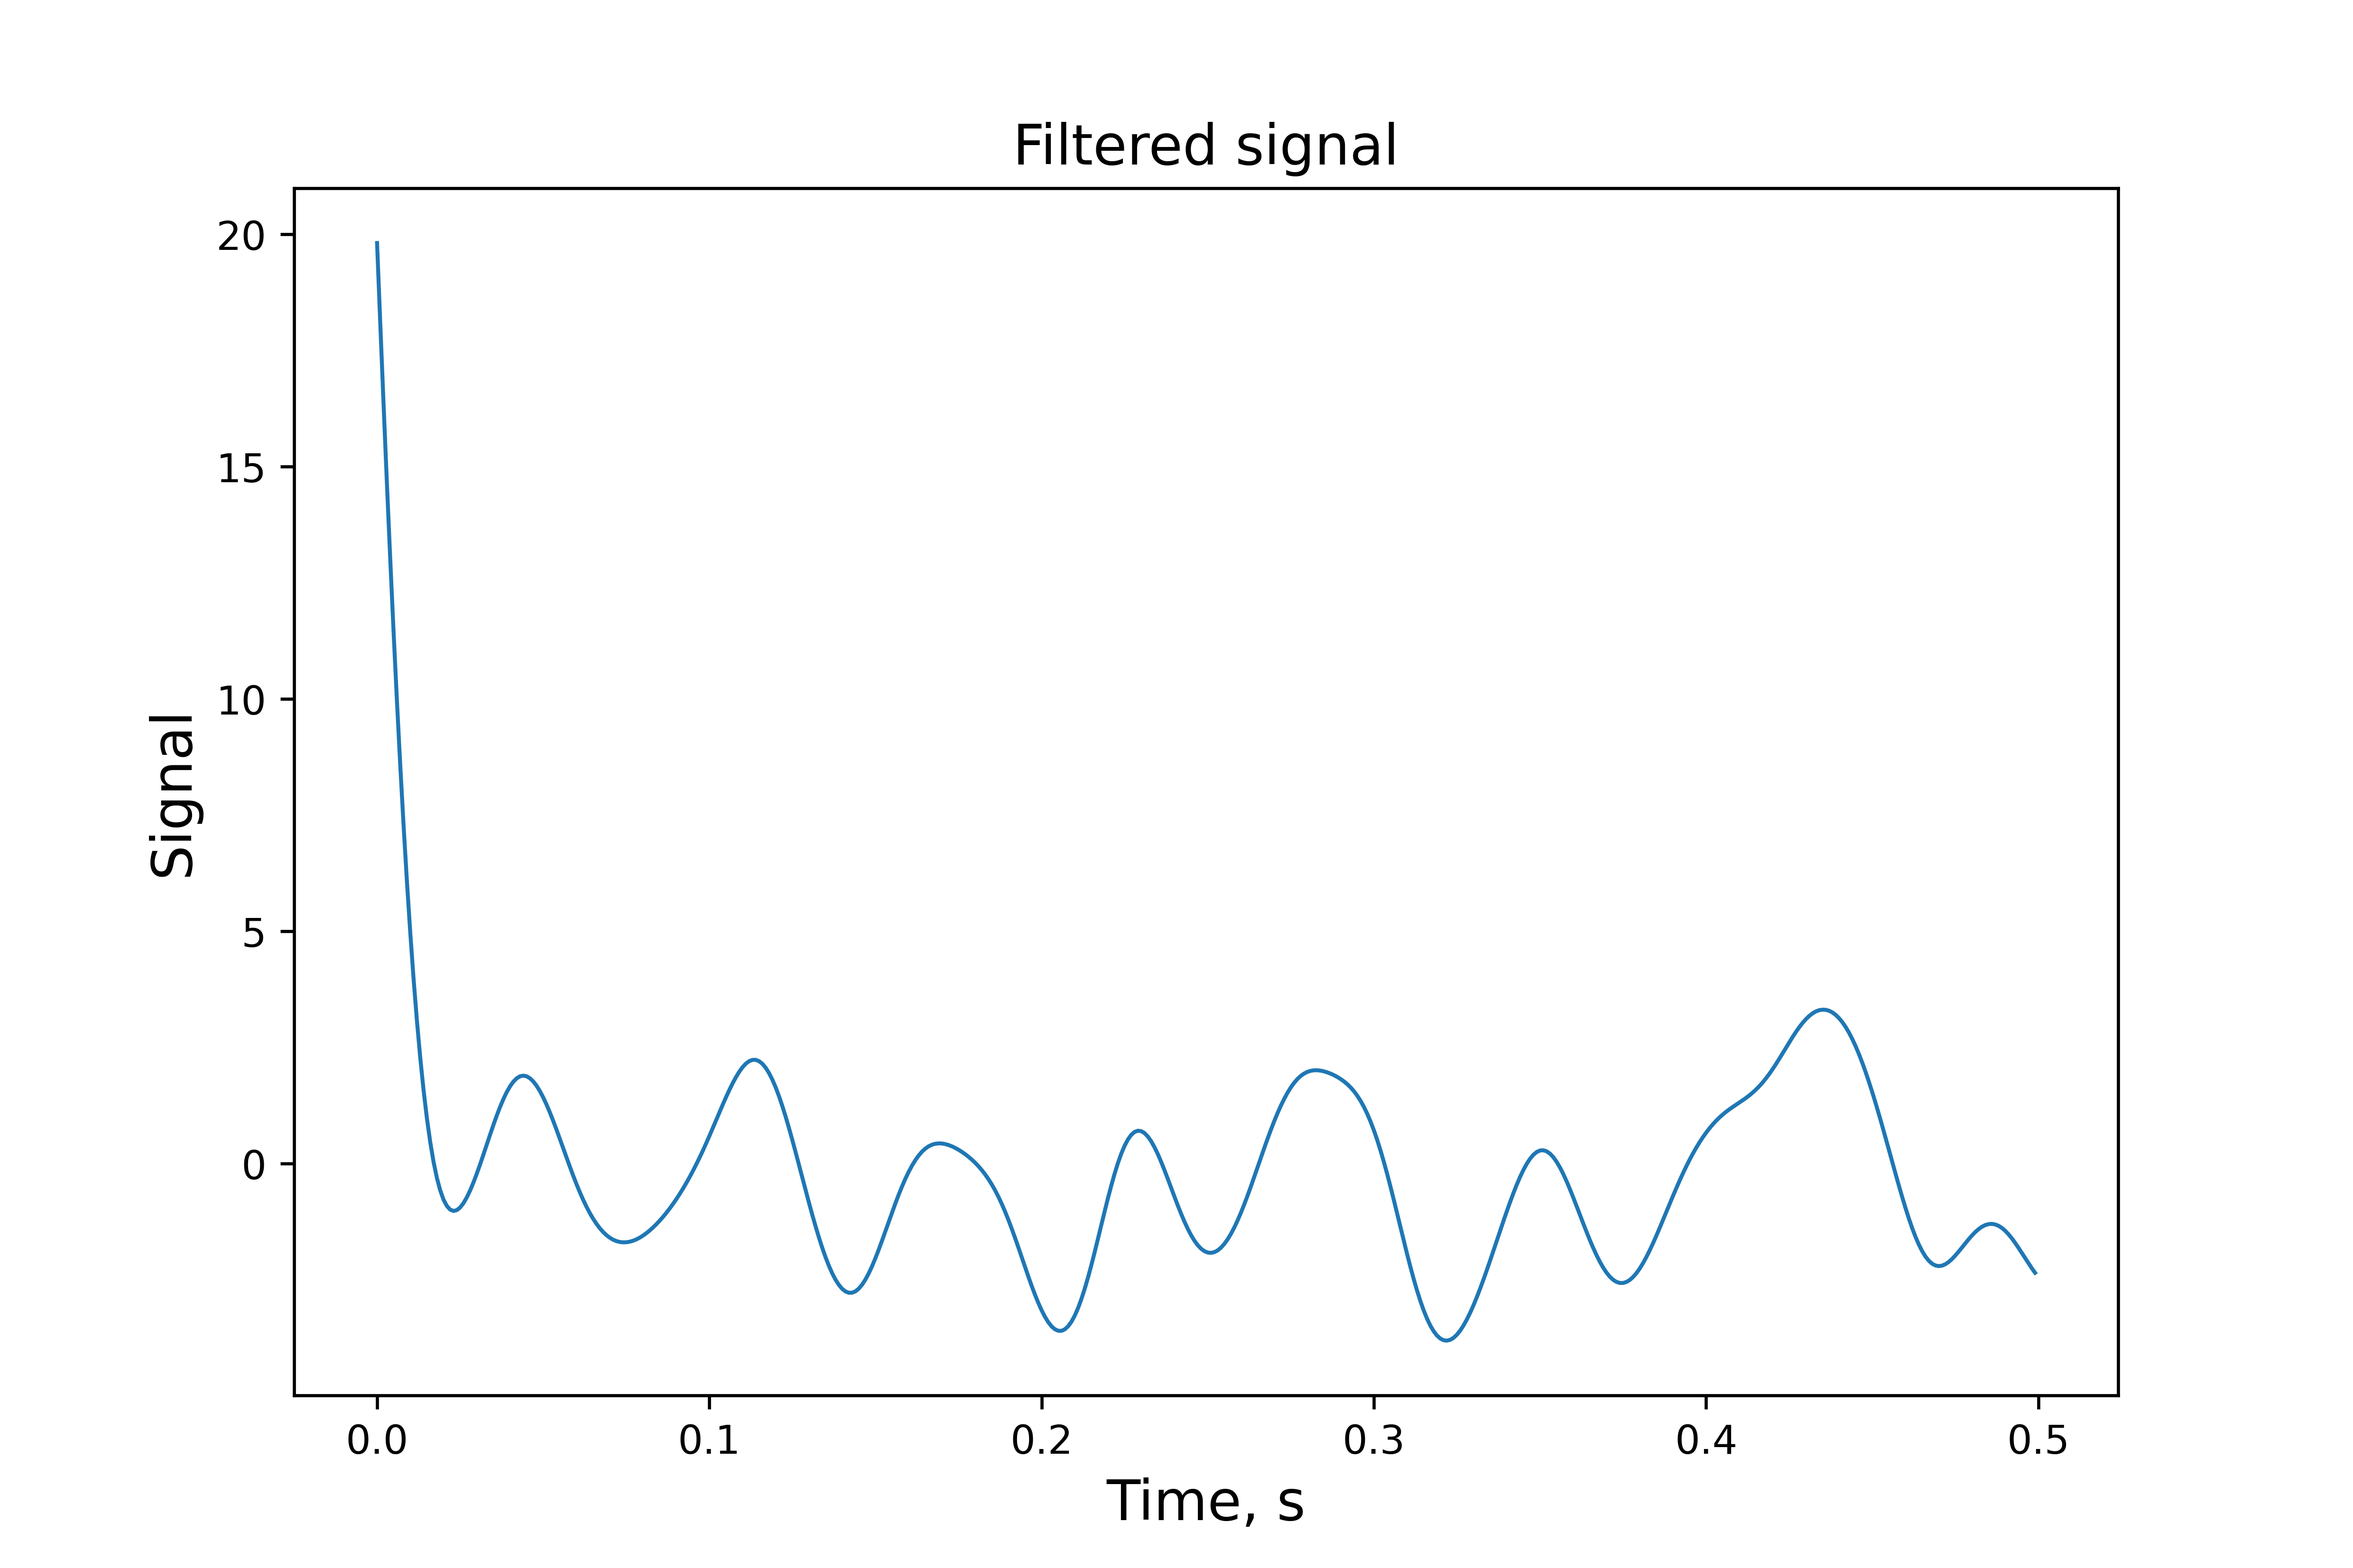
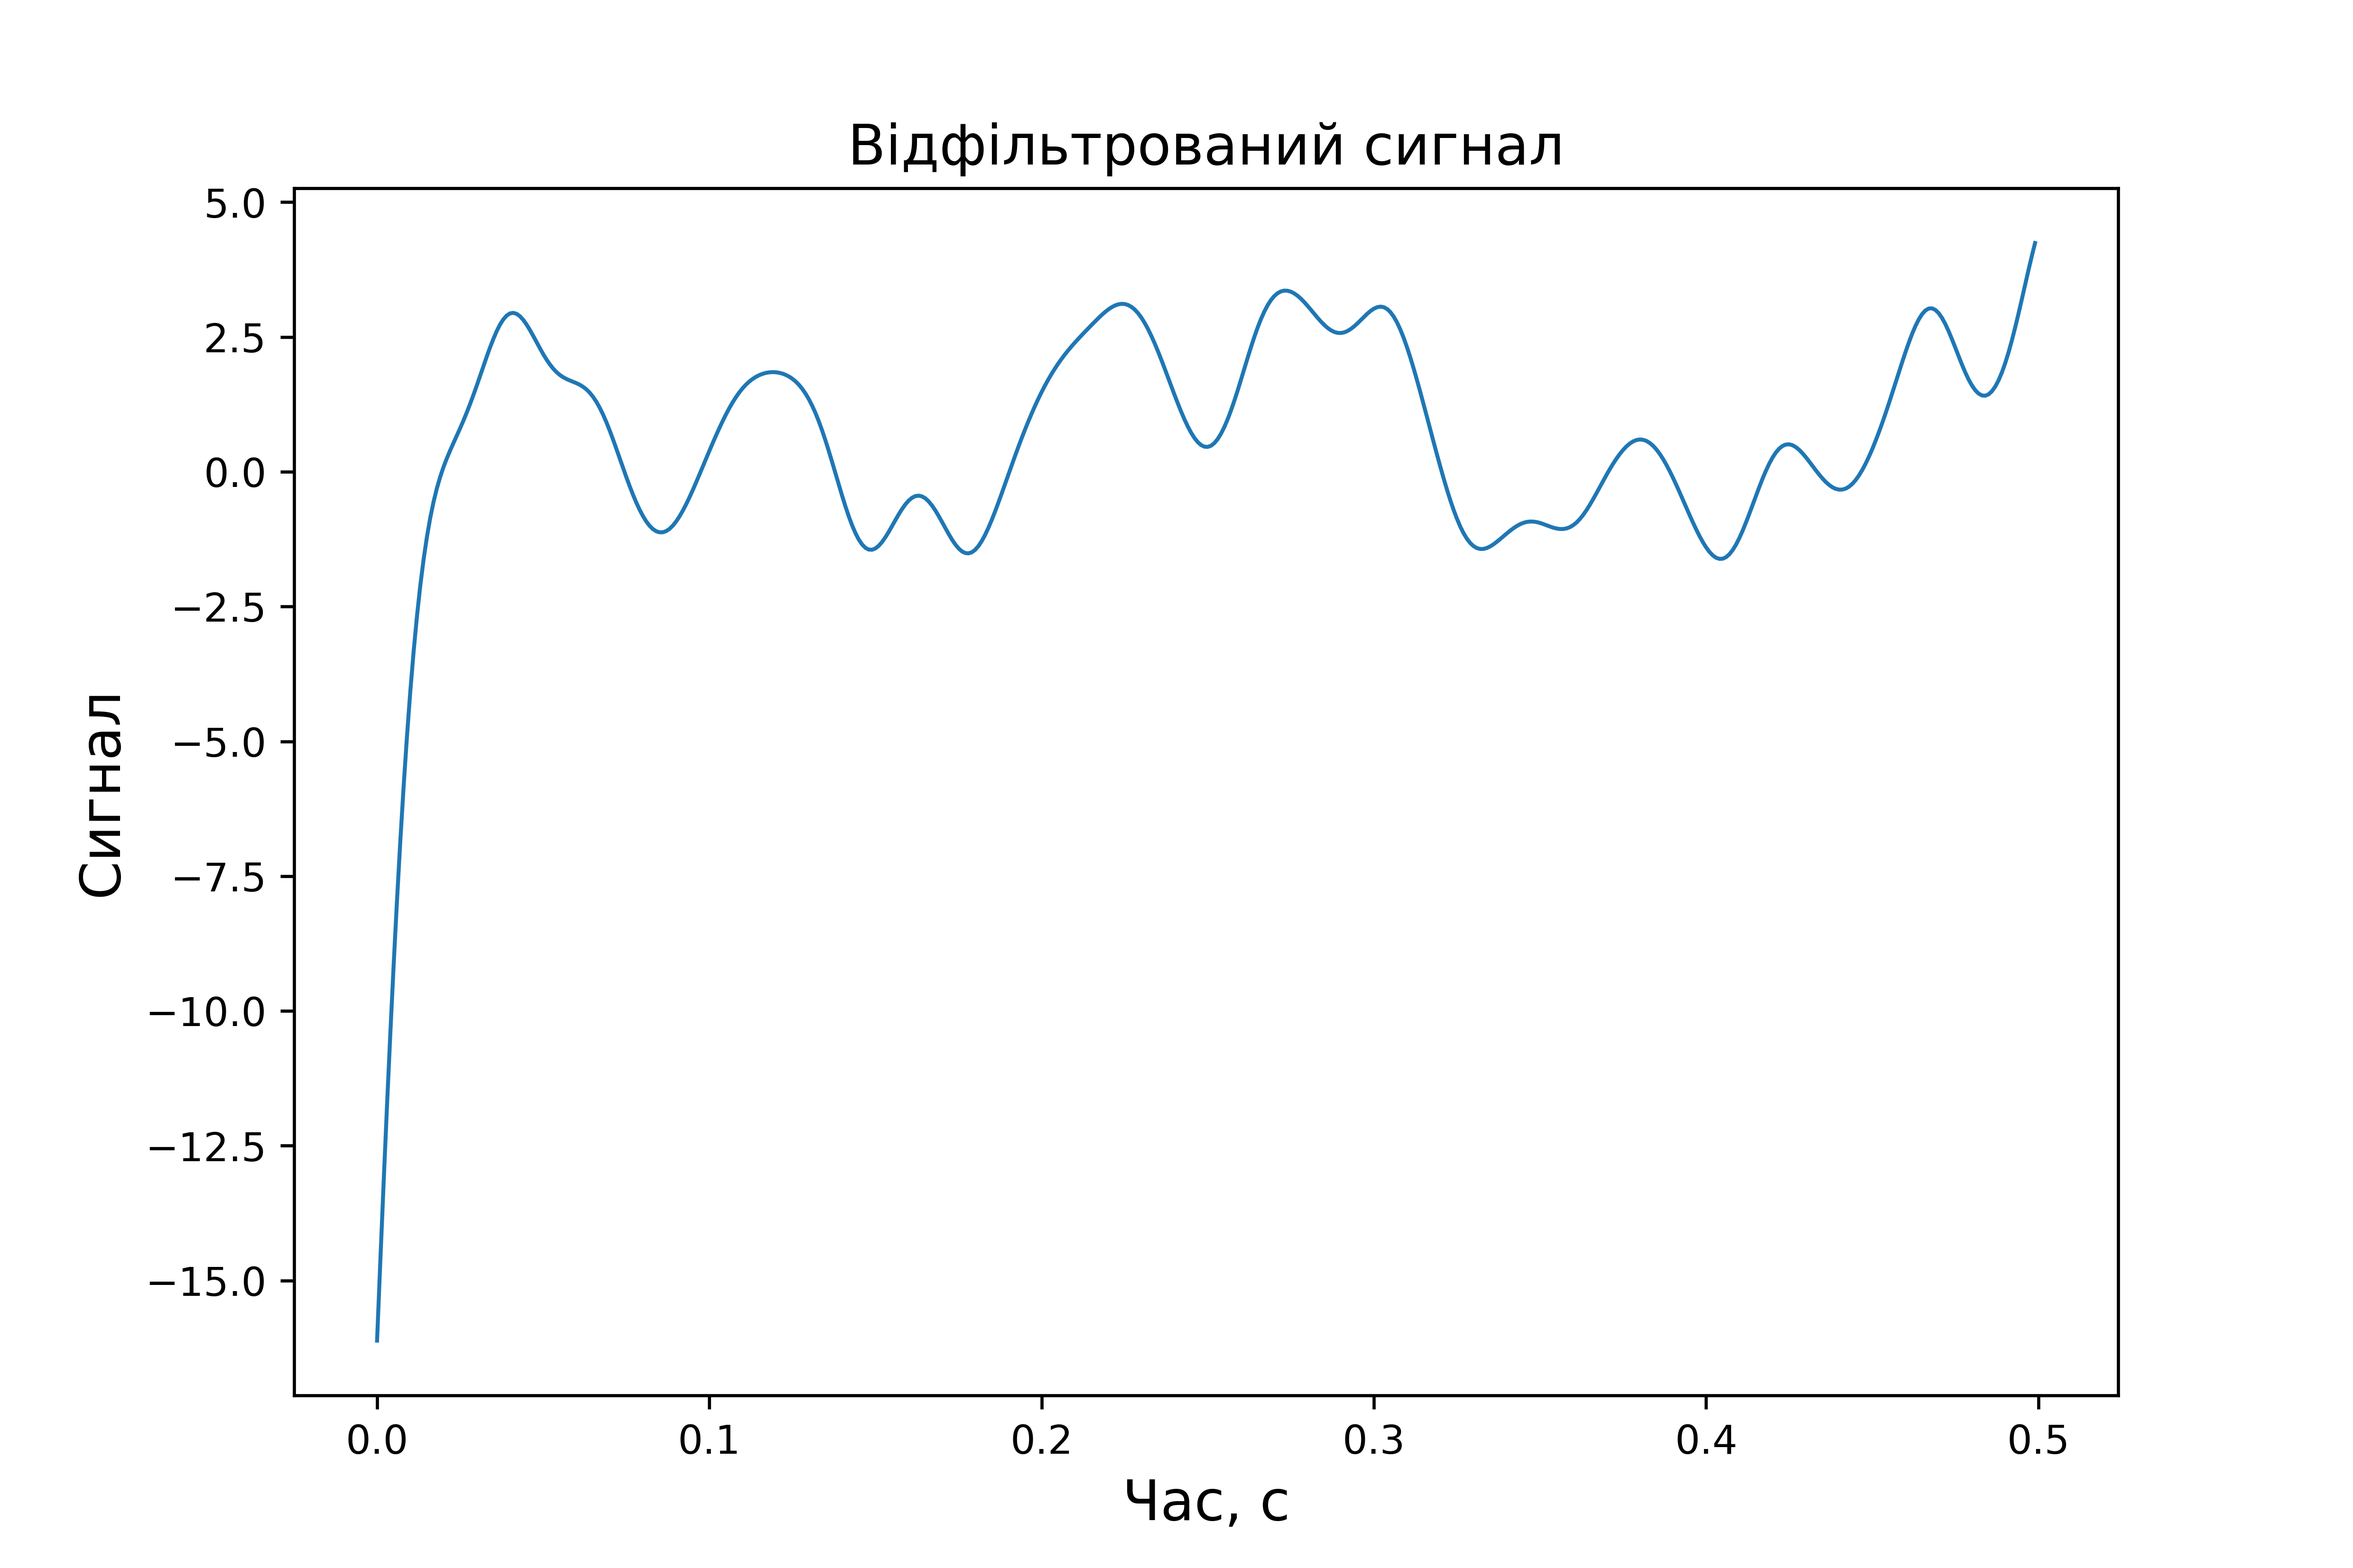
SignalProcessing,2

diff --git a/SignalProcessing.py b/SignalProcessing.py
@@ -1,50 +1,128 @@
 import numpy as np
 from scipy import signal, fft
 import matplotlib.pyplot as plt
+import os
 
-# Параметры сигнала
-n = 500
-Fs = 1000
-F_max = 21
+def generate_signal(n, max_frequency, Fs):
+    random_signal = np.random.normal(0, 10, n)
+    time_values = np.arange(n) / Fs
+    w = max_frequency / (Fs / 2)
+    filter_params = signal.butter(3, w, 'low', output='sos')
+    filtered_signal = signal.sosfiltfilt(filter_params, random_signal)
+    return time_values, filtered_signal
 
-# Генерация случайного сигнала
-random = np.random.normal(0, 10, n)
+def generate_signal(n, max_frequency, Fs):
+    random_signal = np.random.normal(0, 10, n)
+    time_values = np.arange(n) / Fs
+    w = max_frequency / (Fs / 2)
+    filter_params = signal.butter(3, w, 'low', output='sos')
+    filtered_signal = signal.sosfiltfilt(filter_params, random_signal)
+    return time_values, filtered_signal
 
-# Отсчеты времени
-time = np.arange(n)/Fs
+if not os.path.exists("figures"):
+    os.makedirs("figures")
 
-# Расчет параметров ФНЧ
-w = F_max/(Fs/2)
-sos = signal.butter(3, w, 'low', output='sos')
+variances = []  # Визначення масиву для збереження дисперсій
+snr_ratios = []  # Визначення масиву для збереження співвідношень сигнал-шум
 
-# Фильтрация сигнала
-filtered = signal.sosfiltfilt(sos, random)
+if __name__ == "__main__":
+    n = 500
+    F_max = 21  # Новий параметр
+    Fs = 1000
 
-# Переменные для графиков
-fig, ax = plt.subplots()
+    time_values, filtered_signal = generate_signal(n, F_max, Fs)
 
-# Построение графика сигнала
-fig, ax = plt.subplots(figsize=(21/2.54, 14/2.54))
-ax.plot(time, filtered, linewidth=1)
-ax.set_xlabel('Time, s', fontsize=14)
-ax.set_ylabel('Signal', fontsize=14)
-plt.title('Filtered signal', fontsize=14)
+    # Визначення M_values
+    M_values = [4, 16, 64, 256]
 
-# Сохранение графика сигнала
-fig.savefig('./figures/signal.png', dpi=600)
+    # Відображення результатів квантування та розрахунку дисперсій
+    fig, ax = plt.subplots(2, 2, figsize=(21 / 2.54, 14 / 2.54))
+    variances = []  # Визначення масиву для збереження дисперсій
+    snr_ratios = []  # Визначення масиву для збереження співвідношень сигнал-шум
 
-# Расчет спектра
-spectrum = fft.fft(filtered)
-spectrum = np.abs(fft.fftshift(spectrum))
-freqs = fft.fftfreq(n, 1/Fs)
-freqs = fft.fftshift(freqs)
+    for s in range(4):
+        M = M_values[s]
+        delta = (np.max(filtered_signal) - np.min(filtered_signal)) / (M - 1)
+        quantize_signal = delta * np.round(filtered_signal / delta)
 
-# Построение графика спектра
-fig, ax = plt.subplots(figsize=(21/2.54, 14/2.54))
-ax.plot(freqs, spectrum, linewidth=1)
-ax.set_xlabel('Frequency, Hz', fontsize=14)
-ax.set_ylabel('Spectrum', fontsize=14)
-plt.title('Spectrum', fontsize=14)
+        # Розрахунок бітових послідовностей
+        quantize_levels = np.arange(np.min(quantize_signal), np.max(quantize_signal) + 1, delta)
+        quantize_bit = [format(bits, '0' + str(int(np.log2(M))) + 'b') for bits in np.arange(0, M)]
+        quantize_table = np.c_[quantize_levels[:M], quantize_bit[:M]]
 
-# Сохранение графика спектра
-fig.savefig('./figures/spectrum.png', dpi=600)
+        # Збереження таблиці квантування
+        fig_table, ax_table = plt.subplots(figsize=(14 / 2.54, M / 2.54))
+        table = ax_table.table(cellText=quantize_table, colLabels=['Значення сигналу', 'Кодова послідовність'],
+                               loc='center')
+        table.set_fontsize(14)
+        table.scale(1, 2)
+        ax_table.axis('off')
+        plt.savefig(f"./figures/Таблиця квантування для {M} рівнів.png", dpi=600)
+        plt.close(fig_table)
+
+        # Кодування сигналу
+        bits = []
+        for signal_value in quantize_signal:
+            for index, value in enumerate(quantize_levels[:M]):
+                if np.round(np.abs(signal_value - value), 0) == 0:
+                    bits.append(quantize_bit[index])
+                    break
+
+        bits = [int(item) for item in list(''.join(bits))]
+
+        # Побудова графіку бітових послідовностей
+        fig_bits, ax_bits = plt.subplots(figsize=(21 / 2.54, 14 / 2.54))
+        ax_bits.step(np.arange(0, len(bits)), bits, linewidth=0.1)
+        ax_bits.set_xlabel('Відліки')
+        ax_bits.set_ylabel('Бітова послідовність')
+        ax_bits.set_title(f'Бітова послідовність для {M} рівнів квантування')
+        plt.savefig(f"./figures/Бітова послідовність для {M} рівнів.png", dpi=600)
+        plt.close(fig_bits)
+
+        # Збереження даних для графіків
+        variances.append(np.var(quantize_signal))
+        snr_ratios.append(np.var(filtered_signal) / np.var(quantize_signal))
+
+        # Відображення цифрового сигналу
+        i, j = divmod(s, 2)
+        ax[i][j].step(time_values, quantize_signal, linewidth=1, where='post', label=f'M = {M}')
+
+    fig.suptitle("Цифрові сигнали з різними рівнями квантування", fontsize=14)
+    fig.supxlabel("Час", fontsize=14)
+    fig.supylabel("Амплітуда цифрового сигналу", fontsize=14)
+
+    # Збереження зображення
+    plt.savefig("figures/Цифрові сигнали з різними рівнями квантування.png", dpi=600)
+
+    # Показати графіки
+    plt.show()
+
+    # Графік дисперсії
+    fig_variance, ax_variance = plt.subplots(figsize=(10, 6))
+    ax_variance.plot(M_values, variances, marker='o', color='b', label='Дисперсія цифрового сигналу')
+    ax_variance.set_xlabel('Кількість рівнів квантування')
+    ax_variance.set_ylabel('Дисперсія')
+    ax_variance.set_xscale('log', base=2)
+    ax_variance.legend()
+    plt.title("Залежність дисперсії цифрового сигналу від кількості рівнів квантування")
+
+    # Збереження графіку
+    plt.savefig("figures/Дисперсія цифрового сигналу.png", dpi=600)
+
+    # Показати графік
+    plt.show()
+
+    # Графік співвідношення сигнал-шум
+    fig_snr, ax_snr = plt.subplots(figsize=(10, 6))
+    ax_snr.plot(M_values, snr_ratios, marker='o', color='r', label='Співвідношення сигнал-шум')
+    ax_snr.set_xlabel('Кількість рівнів квантування')
+    ax_snr.set_ylabel('Співвідношення сигнал-шум')
+    ax_snr.set_xscale('log', base=2)
+    ax_snr.legend()
+    plt.title("Залежність співвідношення сигнал-шум від кількості рівнів квантування")
+
+    # Збереження графіку
+    plt.savefig("figures/Співвідношення сигнал-шум.png", dpi=600)
+
+    # Показати графік
+    plt.show()
